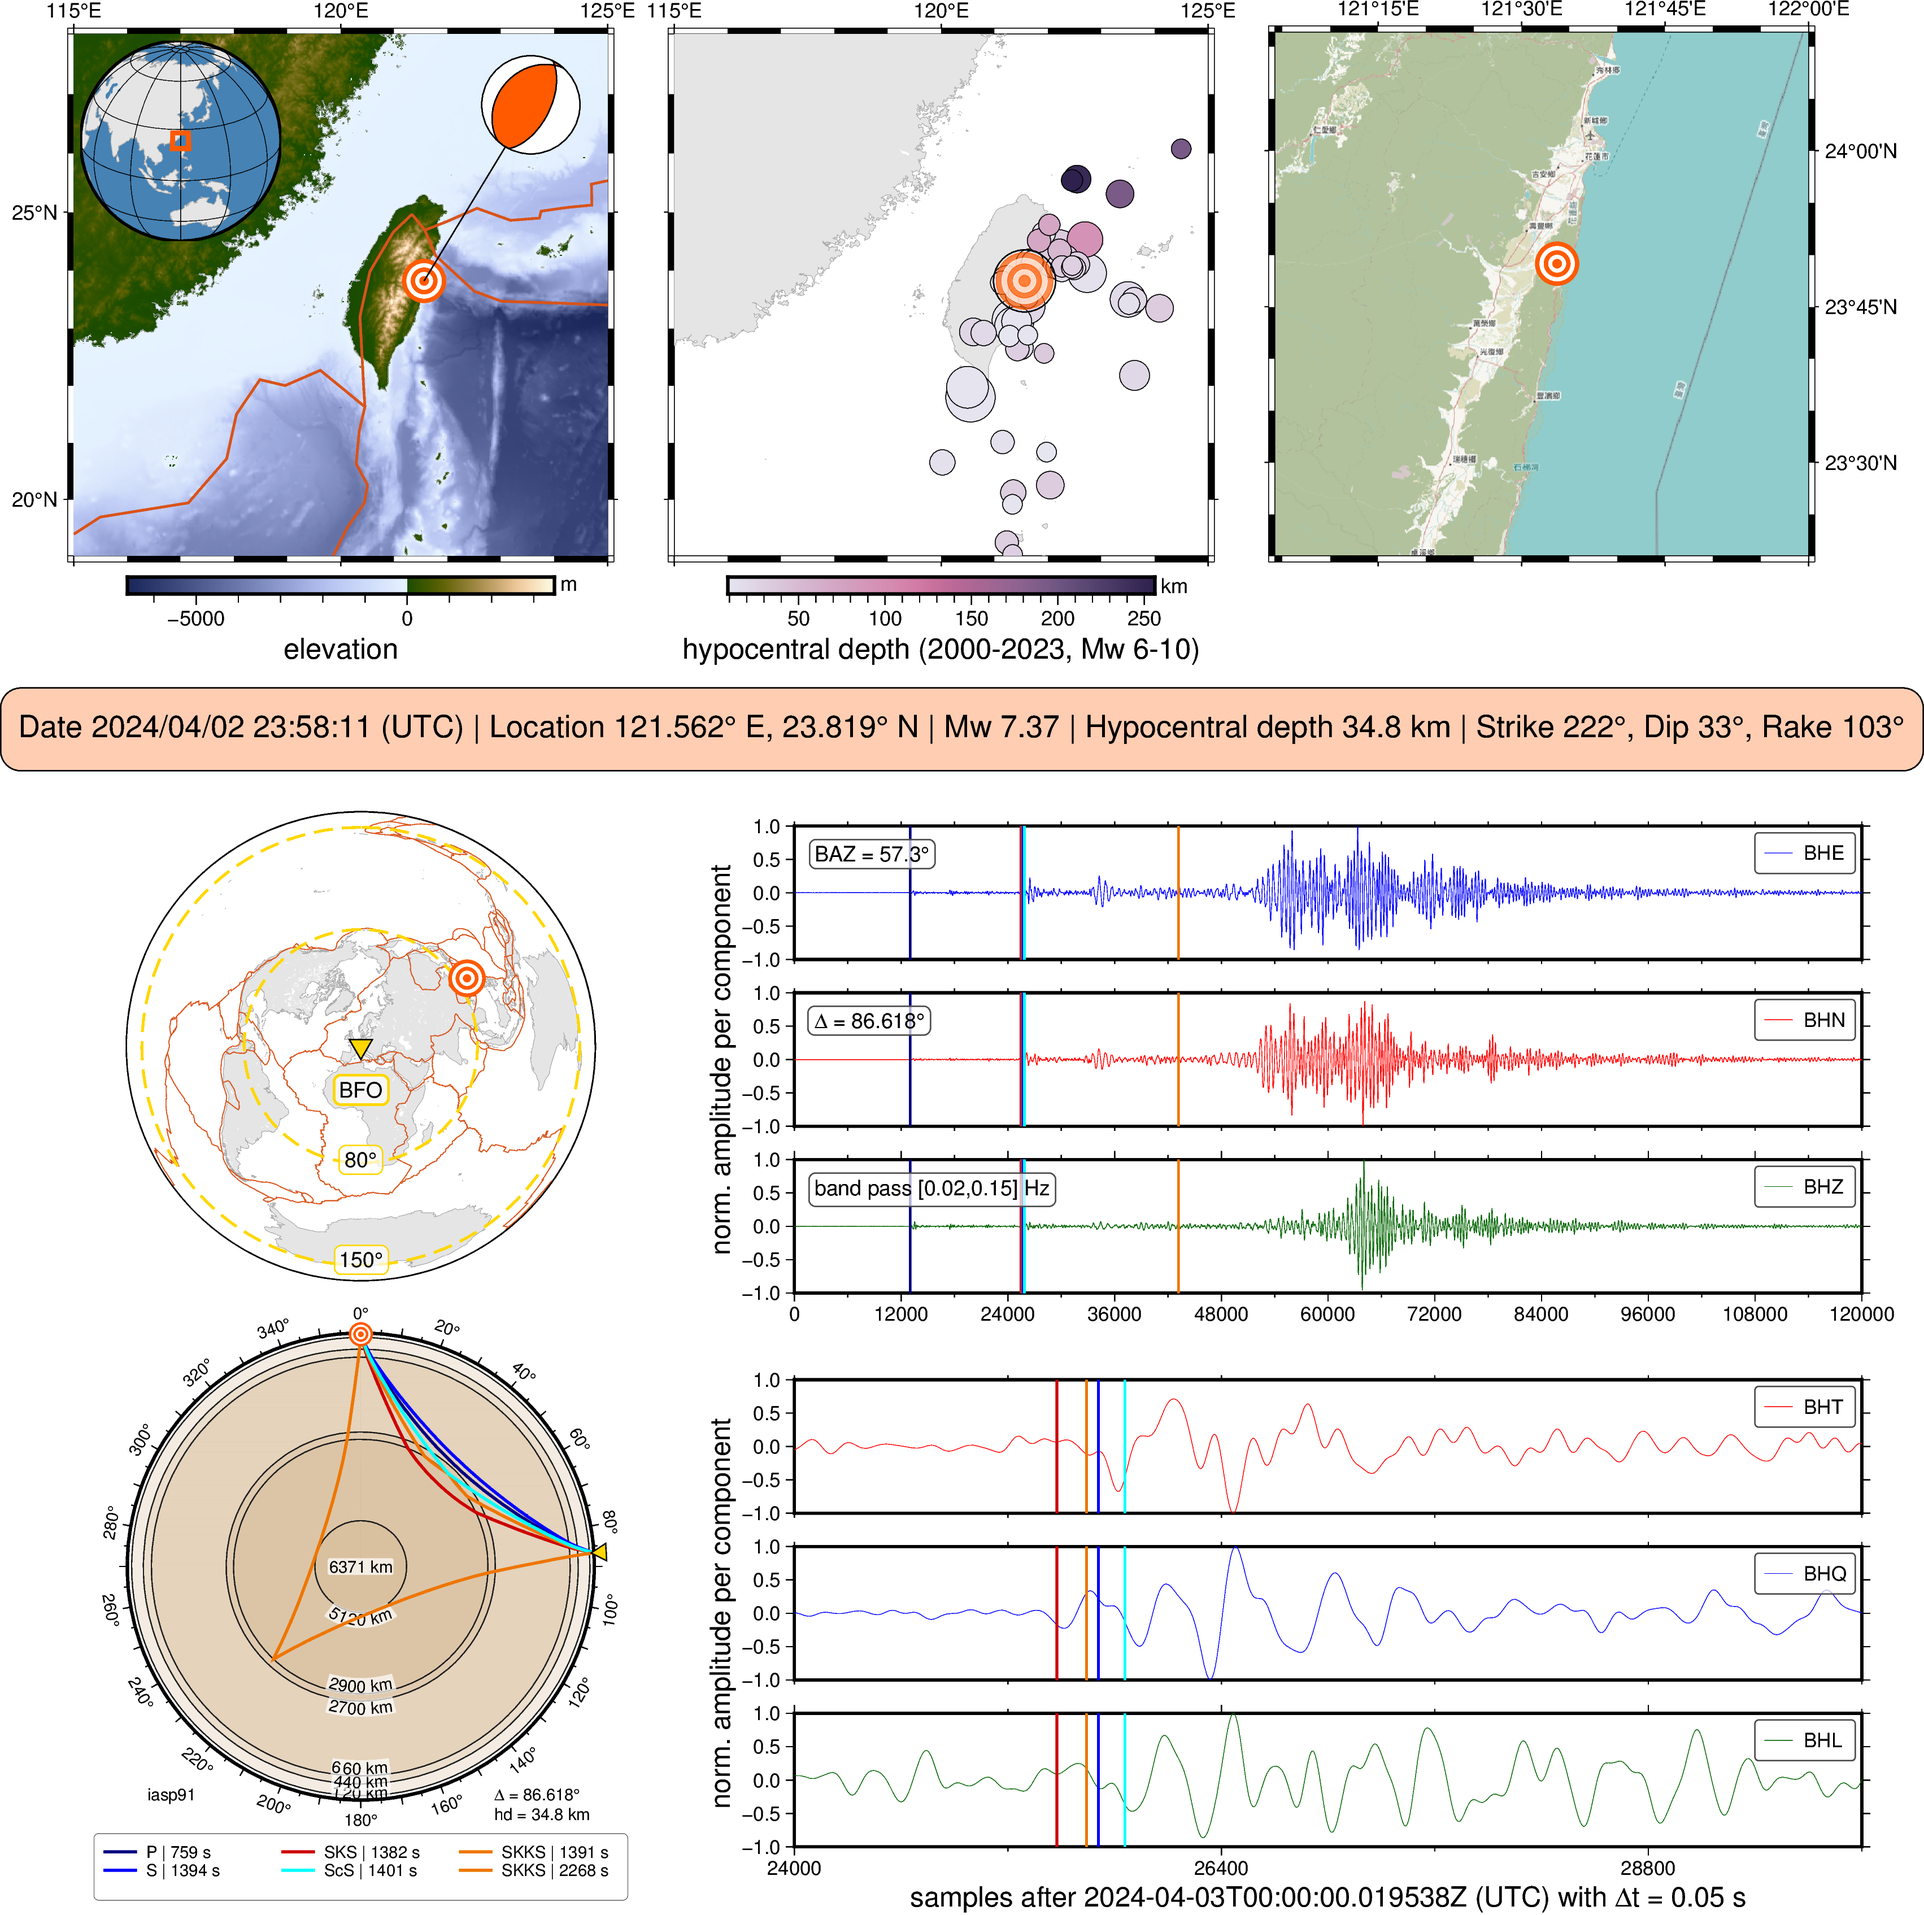
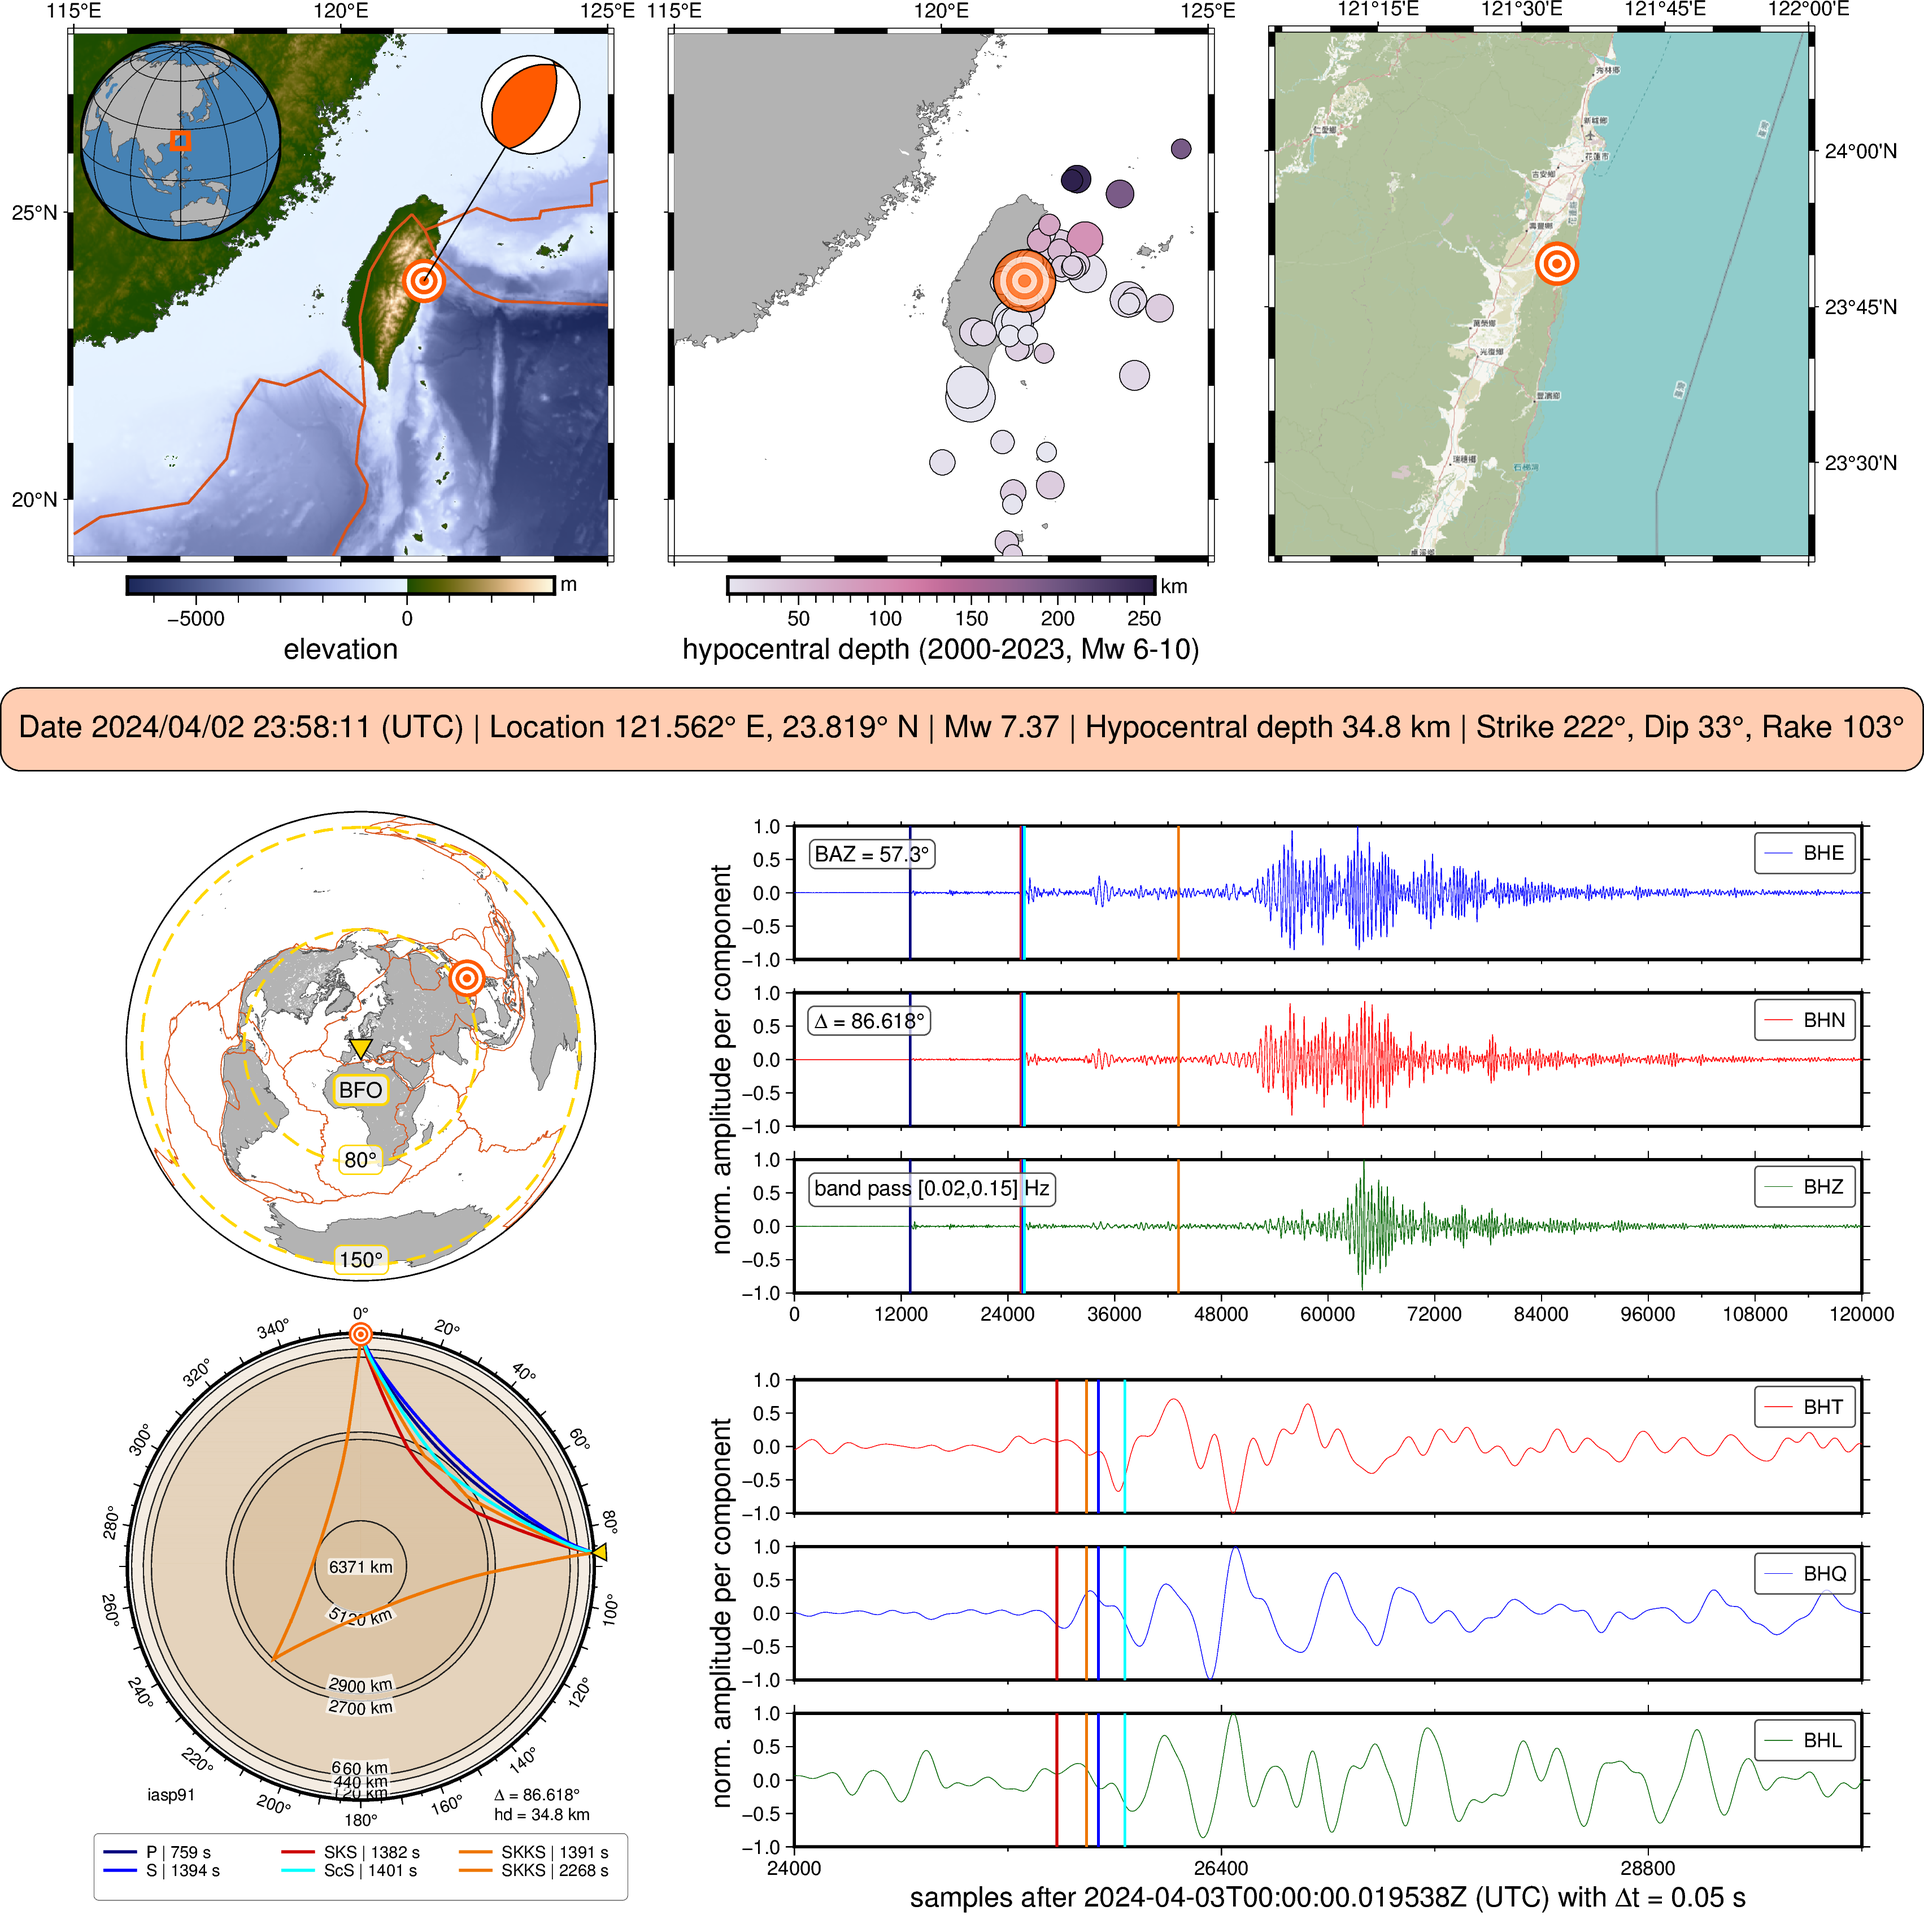
Fix Marokko to Marocco

diff --git a/004_earthquakes_eruptions/05_marocco/marocco_earthquake.py b/004_earthquakes_eruptions/05_marocco/marocco_earthquake.py
@@ -1,5 +1,5 @@
 # #############################################################################
-# Marokko earthquake on 2023/09/08 at 22:11:02 (UTC)
+# Marocco earthquake on 2023/09/08 at 22:11:02 (UTC)
 # -----------------------------------------------------------------------------
 # Author: Yvonne Fröhlich
 # ORCID: https://orcid.org/0000-0002-8566-0619
@@ -18,7 +18,7 @@ import pygmt as gmt
 # General stuff
 # -----------------------------------------------------------------------------
 # >>> Set for your needs <<<
-fig_name = "marokko_earthquake"  # Name of output figure
+fig_name = "marocco_earthquake"  # Name of output figure
 png_dpi = 360  # Resolution of output png
 grid_res = "05m"  # Resolution of elevation grid
 grid_reg = "g"  # Registration of elevation grid
@@ -108,7 +108,7 @@ fig.plot(
 # Beachball
 pen_epi = "0.5p,black"
 fig.meca(
-    spec="meca_marokko.txt",
+    spec="meca_marocco.txt",
     convention="aki",
     scale="1c",
     compressionfill=color_highlight,  # fill color of compressive quadrants
@@ -119,7 +119,7 @@ fig.meca(
 fig.text(
     x=lon_eq,
     y=lat_eq,
-    text="Marokko",
+    text="Marocco",
     font="8p,Helvetica-Bold,black",
     offset="-0.5c/-0.8c",
     fill="white@30",
@@ -129,7 +129,7 @@ fig.text(
 # Info text
 # Adjust position in txt file
 fig.text(
-    textfiles="info_marokko.txt",
+    textfiles="info_marocco.txt",
     M=True,  # paragraph mode # read from file
     font="8p,black",
     fill="white@30",

diff --git a/004_earthquakes_eruptions/07_taiwan/taiwan_earthquake_BFO.py b/004_earthquakes_eruptions/07_taiwan/taiwan_earthquake_BFO.py
@@ -31,9 +31,9 @@ from taup_path import taup_path
 col_sta = "255/215/0"
 col_eq = "255/90/0"
 col_pd = "216.750/82.875/24.990"
-col_land = "gray90"
 col_water = "steelblue"
-col_shorelines = "darkgray"
+col_land = "gray70"
+col_shorelines = "gray30"
 col_phase = "magenta"
 dict_col_phase = {
     "P": "navyblue",
@@ -363,7 +363,7 @@ fig.plot(
 fig.plot(
     x=lon_epi,
     y=lat_epi,
-    style="kearthquake.def/1.7c",
+    style="kearthquake.def/1.8c",
     fill=col_eq,
     pen=col_eq,
     transparency=30,
@@ -644,7 +644,7 @@ print("status: Travel paths")
 fig.show() # method="external")
 
 fig_name = "taiwan_earthquake_BFO"
-for ext in ["png"]: # , "pdf", "eps"]:
-    fig.savefig(fname=f"{fig_name}.{ext}")
+# for ext in ["png"]: # , "pdf", "eps"]:
+#     fig.savefig(fname=f"{fig_name}.{ext}")
 
 print(fig_name)

diff --git a/004_earthquakes_eruptions/06_japan/japan_earthquake_BFO.py b/004_earthquakes_eruptions/06_japan/japan_earthquake_BFO.py
@@ -31,9 +31,9 @@ from taup_path import taup_path
 col_sta = "255/215/0"
 col_eq = "255/90/0"
 col_pd = "216.750/82.875/24.990"
-col_land = "gray90"
 col_water = "steelblue"
-col_shorelines = "darkgray"
+col_land = "gray70"
+col_shorelines = "gray30"
 col_phase = "magenta"
 dict_col_phase = {
     "P": "navyblue",
@@ -638,7 +638,7 @@ fig.show()
 fig.show() # method="external")
 
 fig_name = "japan_earthquake_BFO"
-for ext in ["png"]: # , "pdf", "eps"]:
-    fig.savefig(fname=f"{fig_name}.{ext}")
+# for ext in ["png"]: # , "pdf", "eps"]:
+#     fig.savefig(fname=f"{fig_name}.{ext}")
 
 print(fig_name)

diff --git a/004_earthquakes_eruptions/README.md b/004_earthquakes_eruptions/README.md
@@ -9,7 +9,7 @@ _Recommended versions_: PyGMT v0.11.0, GMT 6.4.0
 - **[02_tonga](https://github.com/yvonnefroehlich/GMT_PyGMT_plotting/tree/main/004_earthquakes_eruptions/02_tonga)**: Eruption, 2022/01/14-15
 - **[03_esmeraldas](https://github.com/yvonnefroehlich/GMT_PyGMT_plotting/tree/main/004_earthquakes_eruptions/03_esmeraldas)**: Earthquake, 2022/03/27 at 04:28 (UTC)
 - **[04_turkey_syria](https://github.com/yvonnefroehlich/GMT_PyGMT_plotting/tree/main/004_earthquakes_eruptions/04_turkey_syria)**: Earthquakes, 2023/02/06 at 01:17 (UTC), 2023/02/06 at 10:24 (UTC)
-- **[05_marokko](https://github.com/yvonnefroehlich/GMT_PyGMT_plotting/tree/main/004_earthquakes_eruptions/05_marokko)**: Earthquake, 2023/09/08 at 22:11 (UTC)
+- **[05_marocco](https://github.com/yvonnefroehlich/GMT_PyGMT_plotting/tree/main/004_earthquakes_eruptions/05_marocco)**: Earthquake, 2023/09/08 at 22:11 (UTC)
 - **[06_japan](https://github.com/yvonnefroehlich/GMT_PyGMT_plotting/tree/main/004_earthquakes_eruptions/06_japan)**: Earthquake, 2024/01/01 at 07:10 (UTC)
 - **[07_taiwan](https://github.com/yvonnefroehlich/GMT_PyGMT_plotting/tree/main/004_earthquakes_eruptions/07_taiwan)**: Earthquake, 2024/04/02 at 23:58 (UTC)
 
